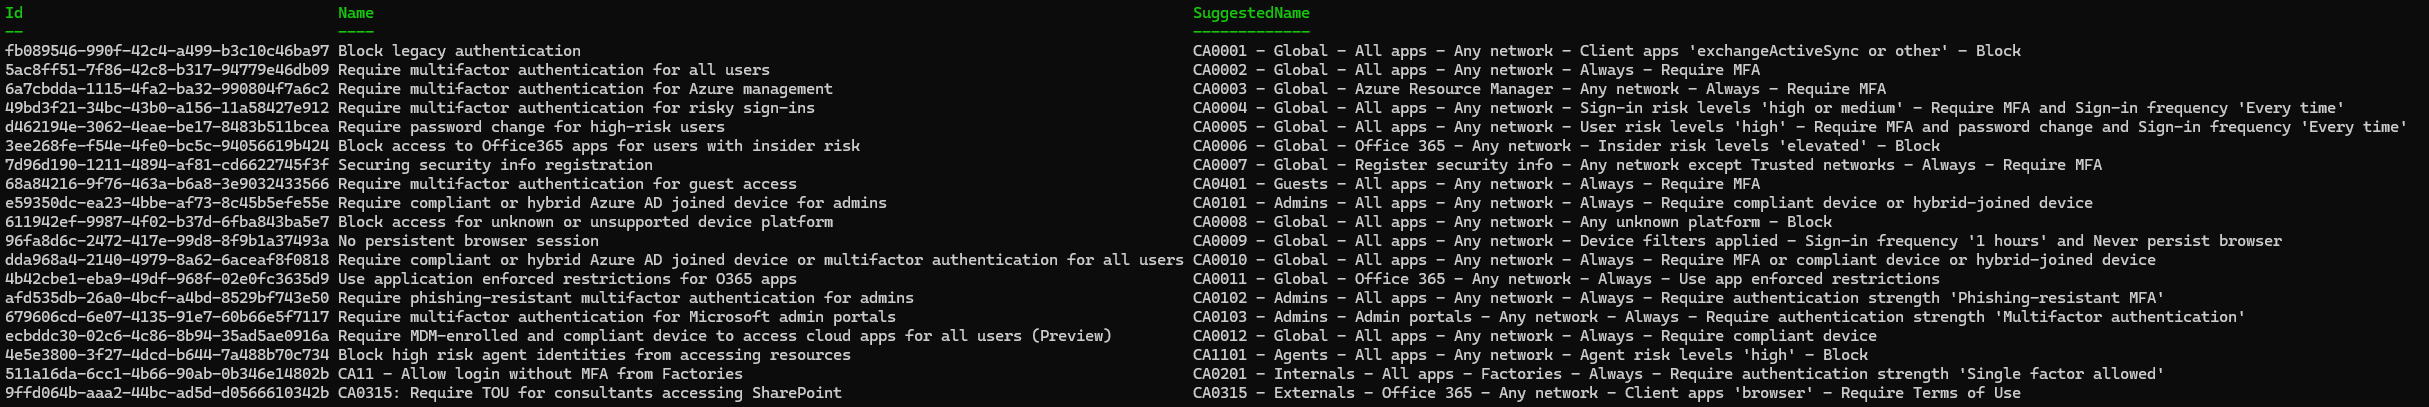
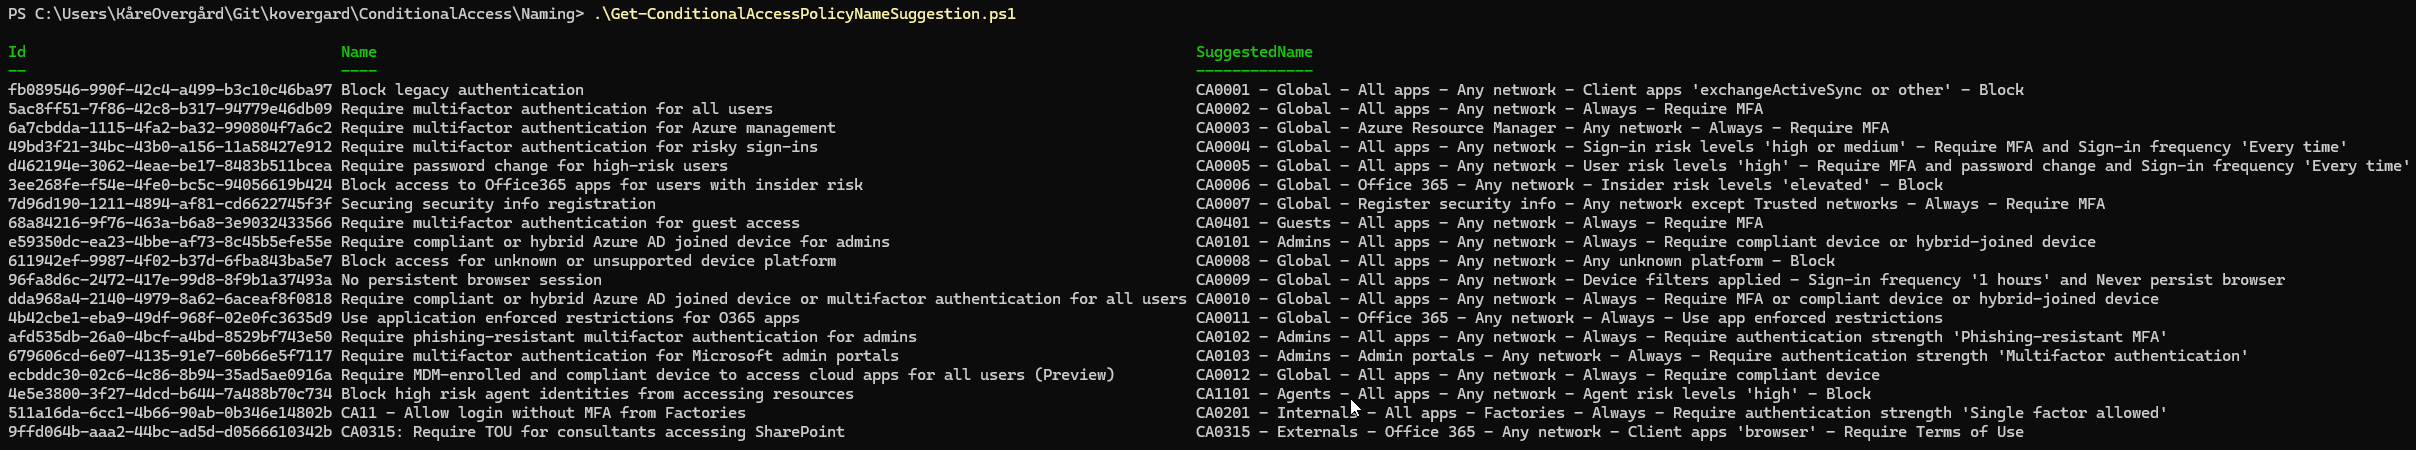
WIP

Changed region(s): [[0.0, 0.0, 1.0, 1.0], [0.0, 0.0, 0.4346, 0.059]]

diff --git a/Naming/README.md b/Naming/README.md
@@ -21,7 +21,7 @@ Require compliant or hybrid Azure AD joined device or multifactor authentication
 [Guidance](https://learn.microsoft.com/en-us/entra/identity/conditional-access/plan-conditional-access#set-naming-standards-for-your-policies) from the Microsoft Learn site suggest using a standard prefixed with a serial number on this format:
 
 ```
-\<SN> - \<Cloud app>: \<Response> For \<Principal> When \<Conditions>
+<SN> - <Cloud app>: <Response> For <Principal> When <Conditions>
 ```
 which will give you names like this:
 ```
@@ -94,28 +94,35 @@ Connect-MgGraph -Scopes Policy.Read.All,Application.Read.All,Group.Read.All
 ```
 ![image](./images/NameSuggestion-Default.png)
 
-
 The default name pattern uses serial numbers and personas from the Conditional Access Guidance for Zero Trust framework.
 
 Notice that the serial number is kept for `CA0315: Require TOU for consultants accessing SharePoint`  since it matches the right persona group and format. However, the `CA11 - Allow login without MFA from Factories` policy is assigned a new serial number, since it is not the right length.
-
 
 ```powershell
 # Condense names and keep existing serial numbers
 .\Get-ConditionalAccessPolicyNameSuggestion.ps1 -Condense -KeepSerialNumbers
 ```
 
+![image](./images/NameSuggestion-Condense-KeepSerial.png)
+
+TODO
 
 ```powershell
 # Use a custom name pattern with condensed names for a compact result with no whitespaces.
 .\Get-ConditionalAccessPolicyNameSuggestion.ps1 -NamePattern '{SerialNumber}-{Persona}-{TargetResource}-{Network}-{Condition}-{Response}' -Condense
 ```
+![image](./images/NameSuggestion-CustomCondensed.png)
 
+TODO
 
 ```powershell
 # Custom name pattern, akin to the one Microsoft currently recommends on Microsoft Learn
-.\Get-ConditionalAccessPolicyNameSuggestion.ps1 -NamePattern '{SerialNumber} | {Persona} | {TargetResource}'
+.\Get-ConditionalAccessPolicyNameSuggestion.ps1 -NamePattern '{SerialNumber} - {TargetResource}: {Response} For {Persona} On {Network} When {Condition}'
 ```
+
+![image](./images/NameSuggestion-CustomMicrosoft.png)
+
+TODO
 
 ## Pattern components
 
